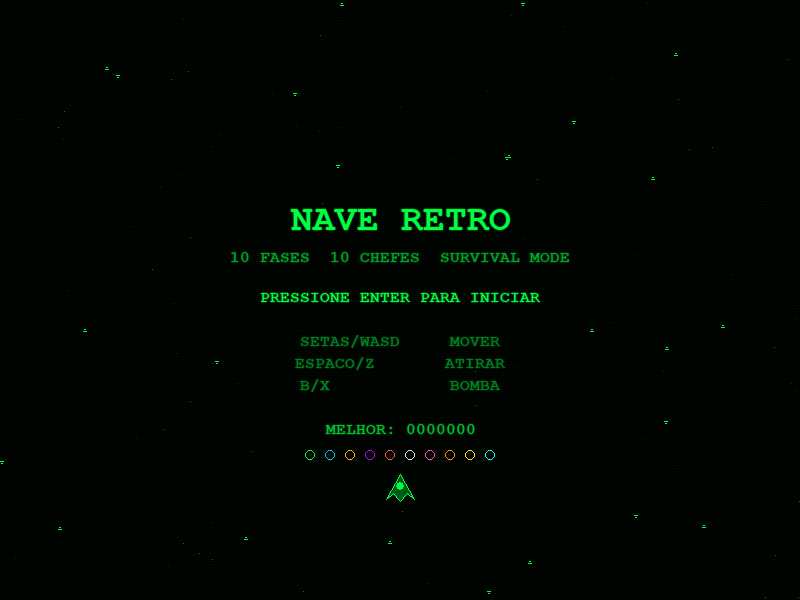
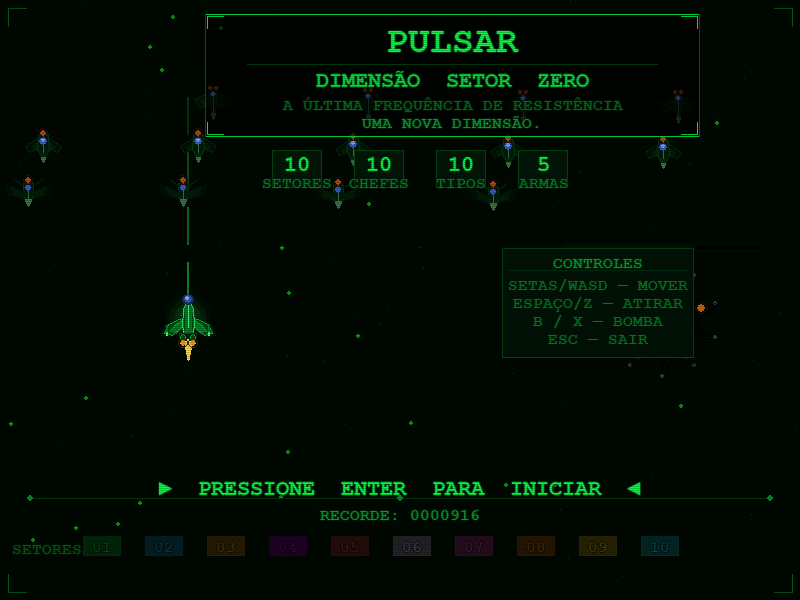
Adiciona 'UMA NOVA DIMENSÃO.' na tela inicial e screenshot no README

diff --git a/jogo.py b/jogo.py
@@ -1760,7 +1760,7 @@ class Game:
                 draw_enemy(screen, ex, ey, dim(pal['ec'], 0.24), etype)
 
         # ── Painel do título ──────────────────────────────────────────────────
-        pw = 494; ph2 = 108; px2 = W//2+52; py2 = 14
+        pw = 494; ph2 = 122; px2 = W//2+52; py2 = 14
         ps = pygame.Surface((pw, ph2), pygame.SRCALPHA)
         ps.fill((0, 0, 0, 158))
         screen.blit(ps, (px2-pw//2, py2))
@@ -1781,11 +1781,13 @@ class Game:
             dim(c,0.88), px2, py2+54, center=True)
         glow_text(screen, "A ÚLTIMA FREQUÊNCIA DE RESISTÊNCIA", _font_sm,
             dim(c,0.42), px2, py2+82, center=True)
+        glow_text(screen, "UMA NOVA DIMENSÃO.", _font_sm,
+            dim(c,0.62), px2, py2+100, center=True)
 
         # ── Features do jogo ──────────────────────────────────────────────────
         feats = [("10","SETORES"),("10","CHEFES"),("10","TIPOS"),("5","ARMAS")]
         for i,(num,lbl) in enumerate(feats):
-            fx2 = W//2-103+i*82; fy2 = 134
+            fx2 = W//2-103+i*82; fy2 = 150
             pygame.draw.rect(screen, dim(c,0.10), (fx2-25, fy2, 50, 38))
             pygame.draw.rect(screen, dim(c,0.30), (fx2-25, fy2, 50, 38), 1)
             glow_text(screen, num,  _font_md, c,          fx2, fy2+2,  center=True)

diff --git a/_screenshot.py b/_screenshot.py
@@ -1,0 +1,30 @@
+# -*- coding: utf-8 -*-
+"""Captura a tela inicial do jogo e salva como screenshot.png"""
+import os, sys
+os.environ["SDL_AUDIODRIVER"] = "dummy"
+
+import pygame
+pygame.init()
+pygame.mixer.init()
+
+# Silencia geração de som antes de importar jogo
+_fake_cls = type('S', (), {'play': lambda *a,**k: None, 'stop': lambda *a: None})
+pygame.mixer.Sound = lambda **k: _fake_cls()
+
+sys.path.insert(0, os.path.dirname(os.path.abspath(__file__)))
+import jogo
+
+# Cria instância sem áudio no estado MENU
+g = jogo.Game.__new__(jogo.Game)
+g.highscore = jogo.load_hs()
+g.sfx = {}
+g.music = None
+g.state = jogo.Game.MENU
+g._init_game()
+
+# Renderiza um frame completo do menu (usa _draw que faz fill + stars + menu + scanline)
+g._draw()
+
+pygame.image.save(jogo.screen, "screenshot.png")
+print("screenshot.png salvo!")
+pygame.quit()

diff --git a/README.md b/README.md
@@ -4,6 +4,8 @@
 
 Shoot 'em up retrô com visual CRT fósforo — scanlines, estrelas com parallax e efeitos retrô. Pilote a nave experimental PULSAR através de 10 setores corrompidos e enfrente o coração da invasão.
 
+![Tela inicial](screenshot.png)
+
 ---
 
 ## História
